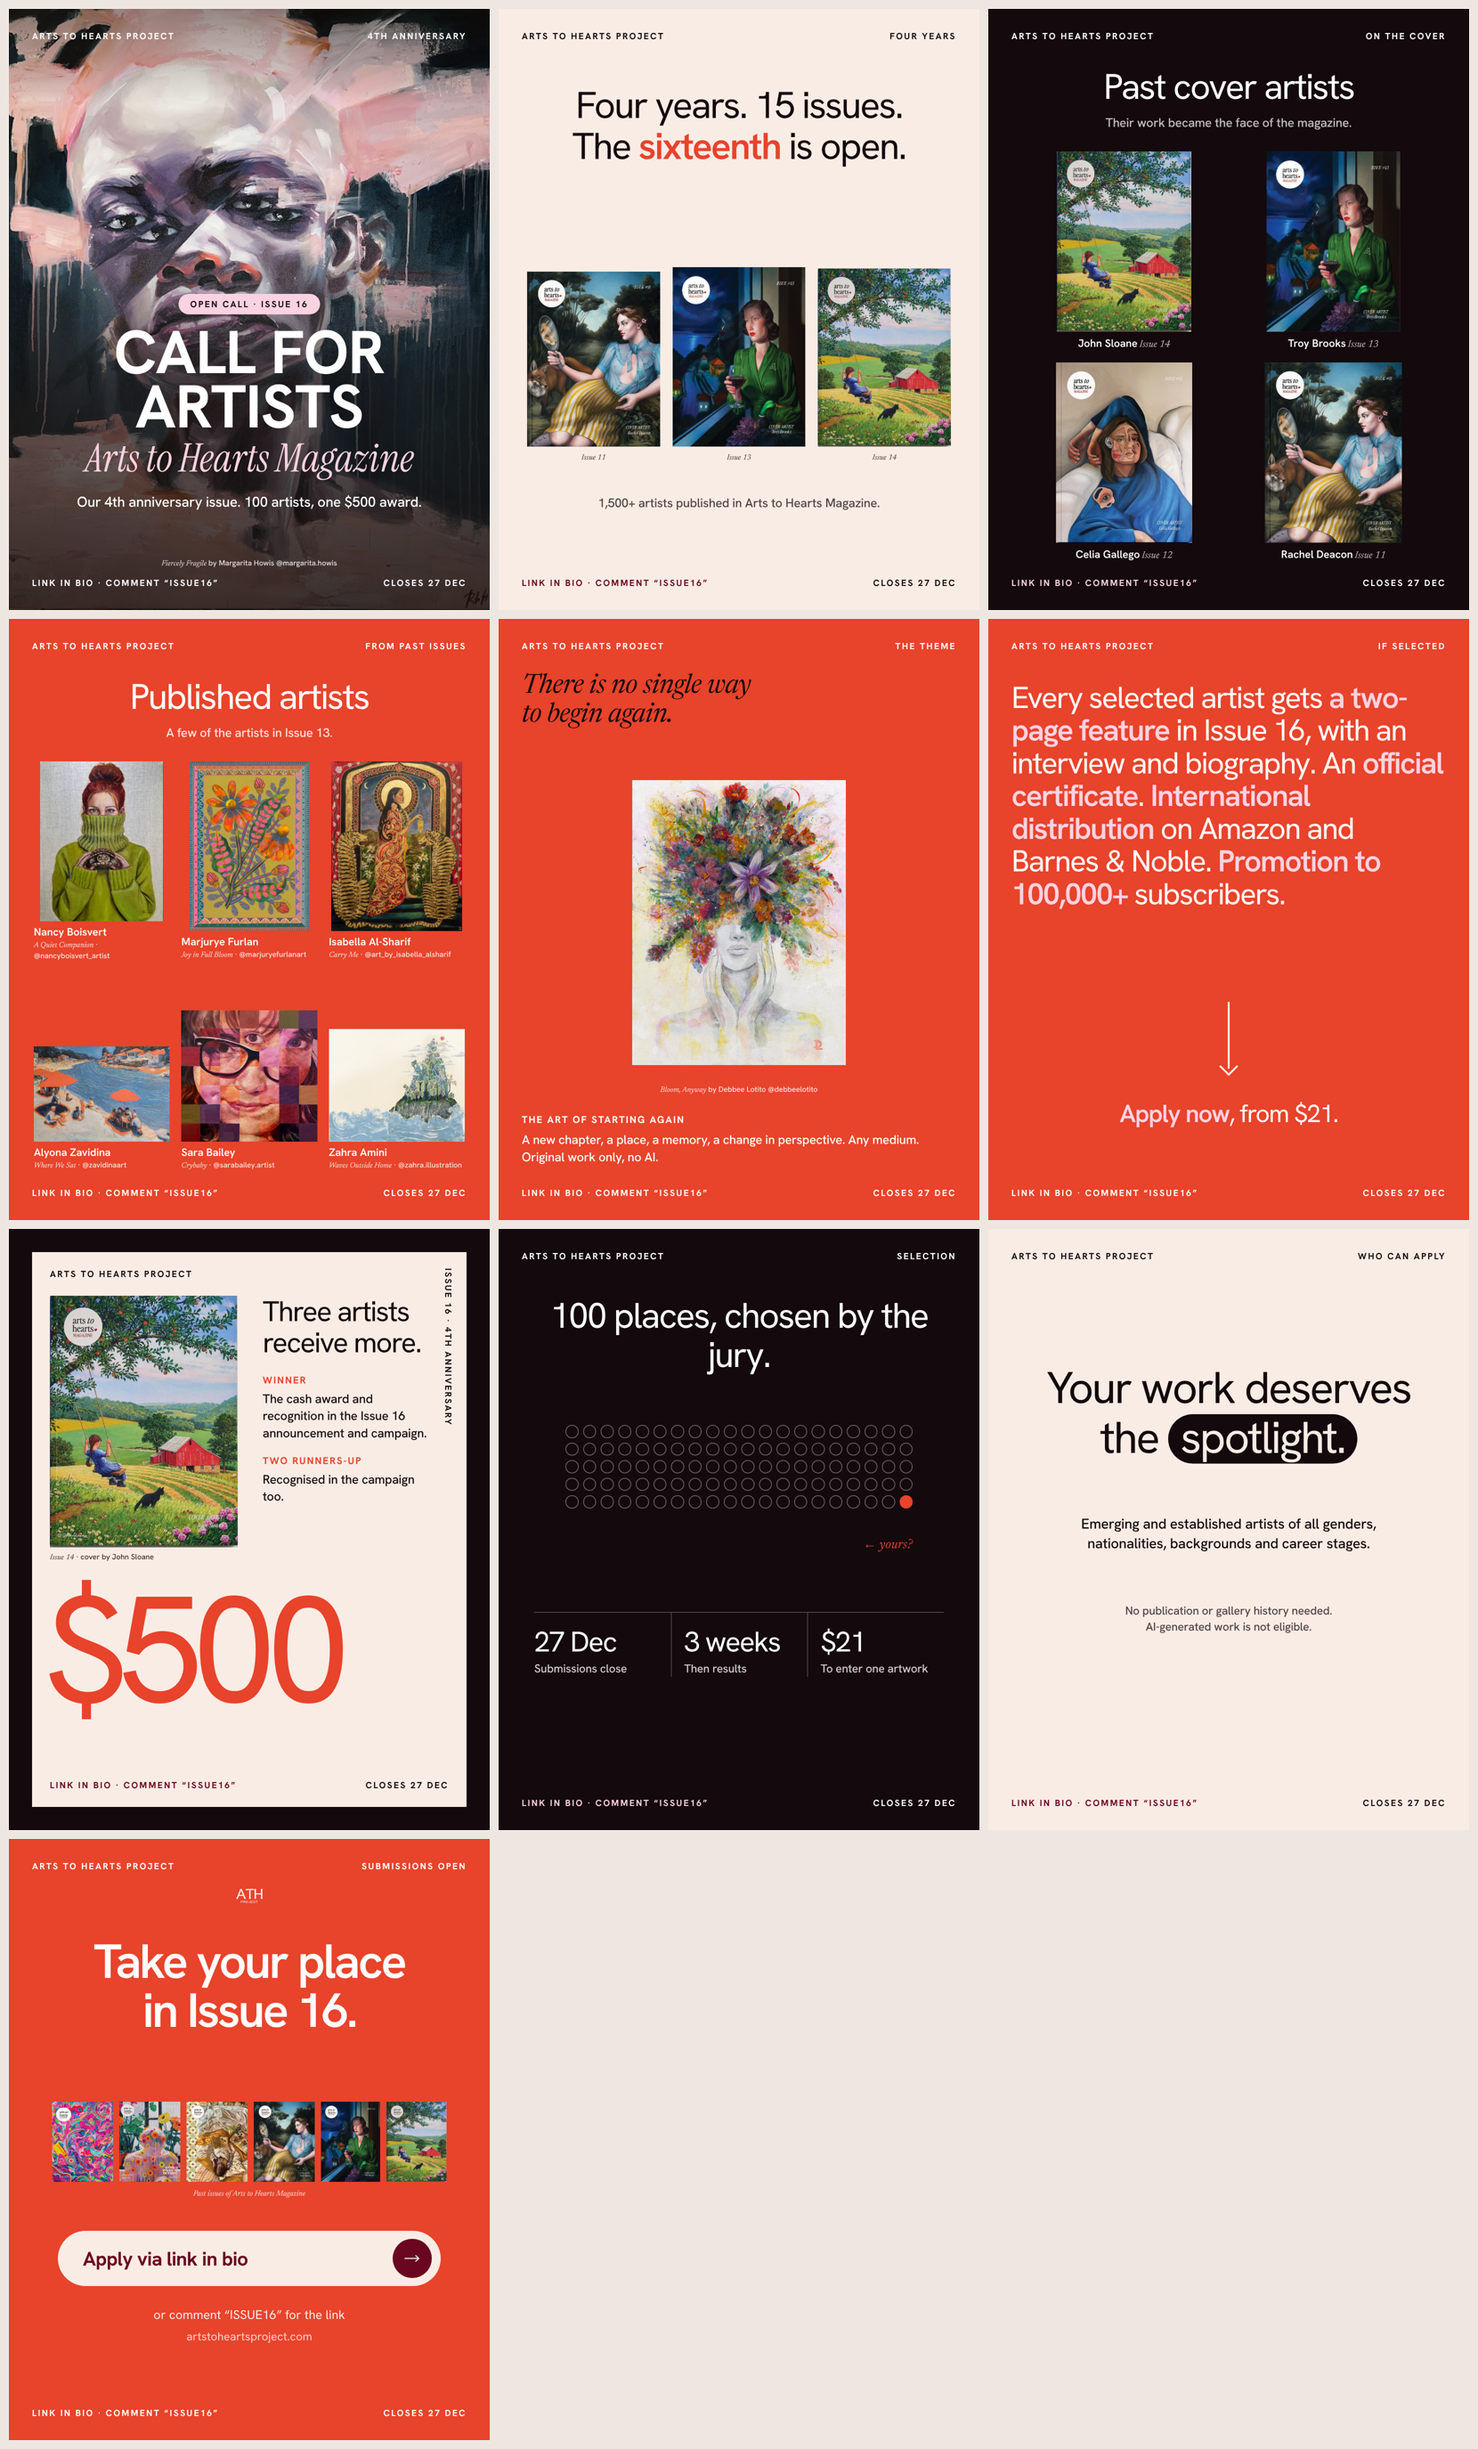
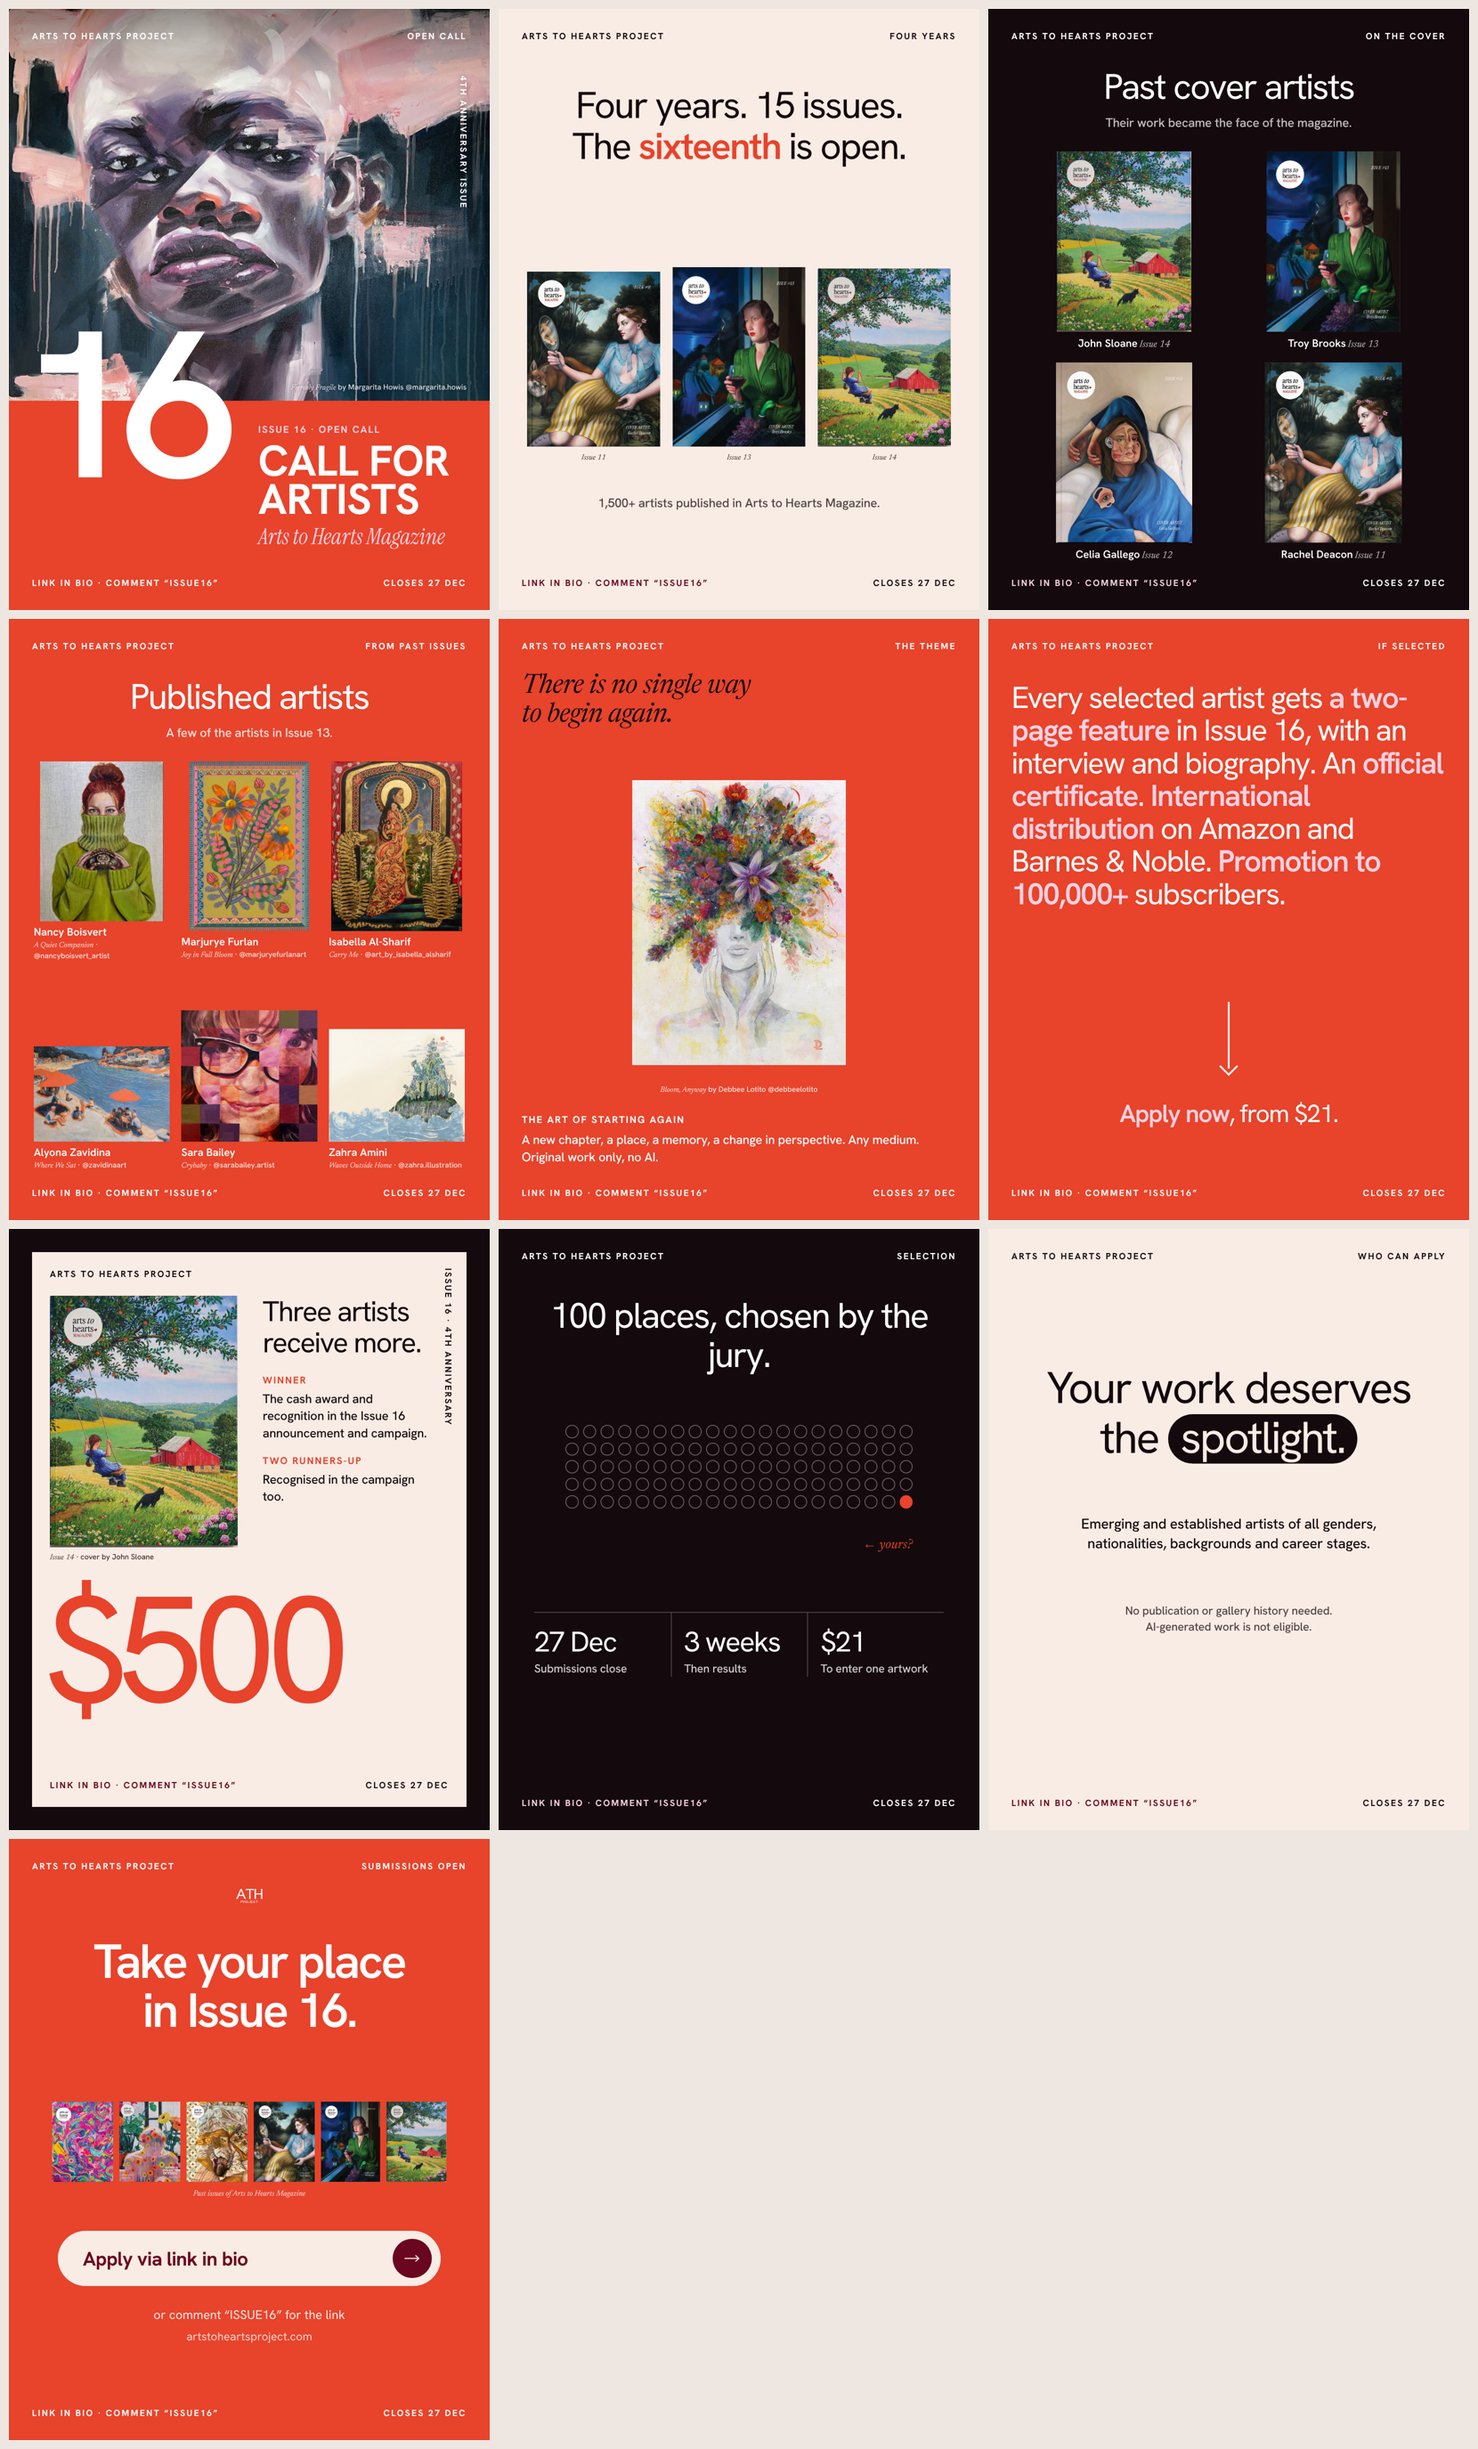
Issue 16 draft: new magazine-style cover (artwork above, colour band, 16 across the seam)
Claude-Session: https://claude.ai/code/session_01Bc4gkdxg6i3YRuybqzVB3k

Changed region(s): [[0.0, 0.0, 0.338, 0.2473]]

diff --git a/site/post-studio/drafts/issue16/index.html b/site/post-studio/drafts/issue16/index.html
@@ -46,16 +46,18 @@ const COVERS = { 14:'John Sloane', 13:'Troy Brooks', 12:'Celia Gallego', 11:'Rac
 const arrow = `<svg width="36" height="16" viewBox="0 0 46 20"><path d="M2 10h40M33 2l9 8-9 8" fill="none" stroke="currentColor" stroke-width="3" stroke-linecap="round" stroke-linejoin="round"/></svg>`;
 
 const S = [];
-// 1 · COVER: the full artwork, as on the dashboard covers
-{ const [src, t, a, h] = ART.howis; S.push({bg: INK, html: `
-  <div class="a img" style="inset:0;background-image:url(${src});background-position:center 20%"></div>
-  <div class="a" style="inset:0;background:linear-gradient(180deg,rgba(20,14,12,.38) 0%,rgba(20,14,12,0) 16%,rgba(20,14,12,0) 40%,rgba(20,14,12,.6) 62%,rgba(20,14,12,.82) 100%)"></div>
-  ${chrome('4th anniversary', W, W)}
-  <div class="a" style="left:0;right:0;top:640px;display:flex;justify-content:center"><span class="cn" style="display:inline-flex;align-items:center;height:46px;padding:0 26px;background:${T};color:${INK};border-radius:999px">Open call · Issue 16</span></div>
-  <p class="a c" style="left:0;right:0;top:710px;font-size:136px;font-weight:700;letter-spacing:-.01em;line-height:.9;text-transform:uppercase;color:${W}">Call for<br>artists</p>
-  <p class="a c scr" style="left:0;right:0;top:965px;font-size:88px;line-height:1;color:${T}">Arts to Hearts Magazine</p>
-  <p class="a c sub" style="left:150px;right:150px;top:1085px;color:${W}">Our 4th anniversary issue. 100 artists, one $500 award.</p>
-  <p class="a crd c" style="left:0;right:0;bottom:92px;color:${W}">${credit(t, a, h)}</p>`}); }
+// 1 · COVER: a magazine cover. Full artwork above, a solid call-colour band below, "16" across the seam
+{ const [src, t, a, h] = ART.howis; S.push({bg: C, html: `
+  <div class="a img" style="left:0;right:0;top:0;height:880px;background-image:url(${src});background-position:center 28%"></div>
+  <div class="a" style="left:0;right:0;top:0;height:160px;background:linear-gradient(180deg,rgba(20,14,12,.42),rgba(20,14,12,0))"></div>
+  <p class="a cn" style="left:52px;top:48px;color:${W}">Arts to Hearts Project</p><p class="a cn" style="right:52px;top:48px;color:${W}">Open call</p>
+  <p class="a cn" style="right:46px;top:150px;writing-mode:vertical-rl;color:${W};text-shadow:0 1px 8px rgba(0,0,0,.35)">4th anniversary issue</p>
+  <p class="a crd" style="right:52px;top:838px;text-align:right;color:${W};text-shadow:0 1px 6px rgba(0,0,0,.6)">${credit(t, a, h)}</p>
+  <p class="a" style="left:26px;top:700px;font-size:470px;font-weight:600;letter-spacing:-.07em;line-height:.8;color:${W}">16</p>
+  <p class="a lab" style="left:560px;top:930px;color:${T}">Issue 16 · Open call</p>
+  <p class="a" style="left:560px;right:52px;top:972px;font-size:96px;font-weight:700;letter-spacing:-.01em;line-height:.9;text-transform:uppercase;color:${W}">Call for<br>artists</p>
+  <p class="a scr" style="left:560px;right:40px;top:1160px;font-size:50px;line-height:1;white-space:nowrap;color:${T}">Arts to Hearts Magazine</p>
+  <p class="a cn" style="left:52px;bottom:48px;color:${W}">Link in bio · comment “${KEY}”</p><p class="a cn" style="right:52px;bottom:48px;color:${W}">${CLOSES}</p>`}); }
 
 // 2 · FOUR YEARS IN PRINT
 S.push({bg: CREAM, html: `${chrome('Four years', INK, MAROON)}
